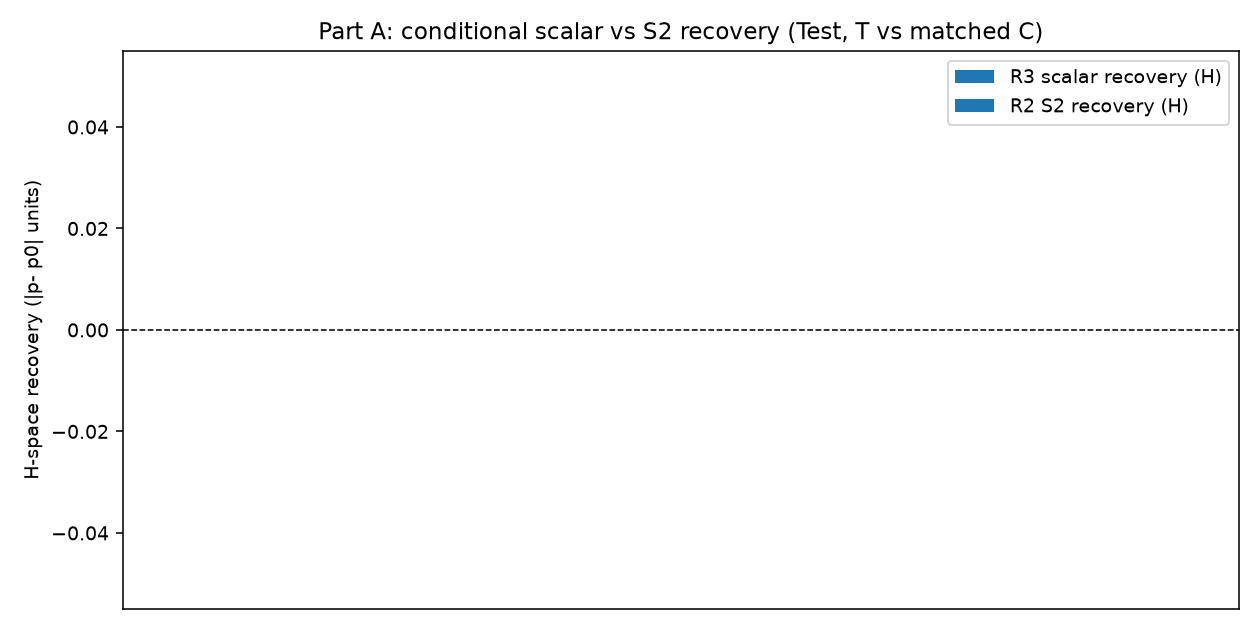
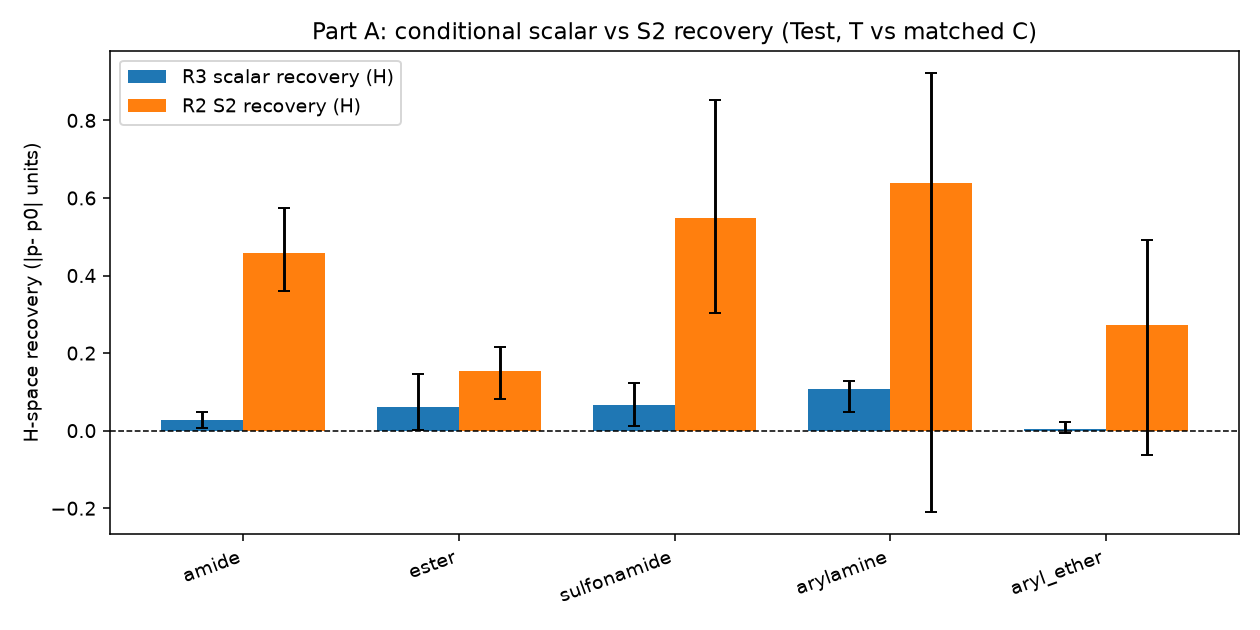
Fix the Part A recovery figure to read the new round's aggregate keys

diff --git a/tracks/structural-sufficiency/lcrc_lipo_oracle_task_relevance_public122_s0_v1/code/figures.py b/tracks/structural-sufficiency/lcrc_lipo_oracle_task_relevance_public122_s0_v1/code/figures.py
@@ -92,15 +92,15 @@ def summary_table(data: dict[str, Any]) -> dict[str, Any]:
 
 def fig_partA(data: dict[str, Any], path: Path) -> None:
     agg = data["partA"]["A3_conditional_recovery"]["aggregate"]
-    fams = [f for f in RC.SC.FAMILIES if agg.get(f"test/{f}/RETAINED_C", {}).get("n_pairs", 0) > 0]
+    fams = [f for f in RC.SC.FAMILIES if agg.get(f"{f}/test/RETAINED_C", {}).get("n_pairs", 0) > 0]
     labels = ["R3 scalar recovery (H)", "R2 S2 recovery (H)"]
     fig, ax = plt.subplots(figsize=(9, 4.5))
     x = np.arange(len(fams))
     w = 0.38
     for i, q in enumerate(("R3_T_H", "R2_T_H")):
-        pts = [agg[f"test/{f}/RETAINED_C"][q]["point"] for f in fams]
-        lo = [agg[f"test/{f}/RETAINED_C"][q]["ci95"][0] for f in fams]
-        hi = [agg[f"test/{f}/RETAINED_C"][q]["ci95"][1] for f in fams]
+        pts = [agg[f"{f}/test/RETAINED_C"][q]["point"] for f in fams]
+        lo = [agg[f"{f}/test/RETAINED_C"][q]["ci95"][0] for f in fams]
+        hi = [agg[f"{f}/test/RETAINED_C"][q]["ci95"][1] for f in fams]
         ax.bar(x + (i - 0.5) * w, pts, w, label=labels[i],
                yerr=[np.asarray(pts) - np.asarray(lo), np.asarray(hi) - np.asarray(pts)], capsize=3)
     ax.axhline(0.0, color="k", lw=0.8, ls="--")
